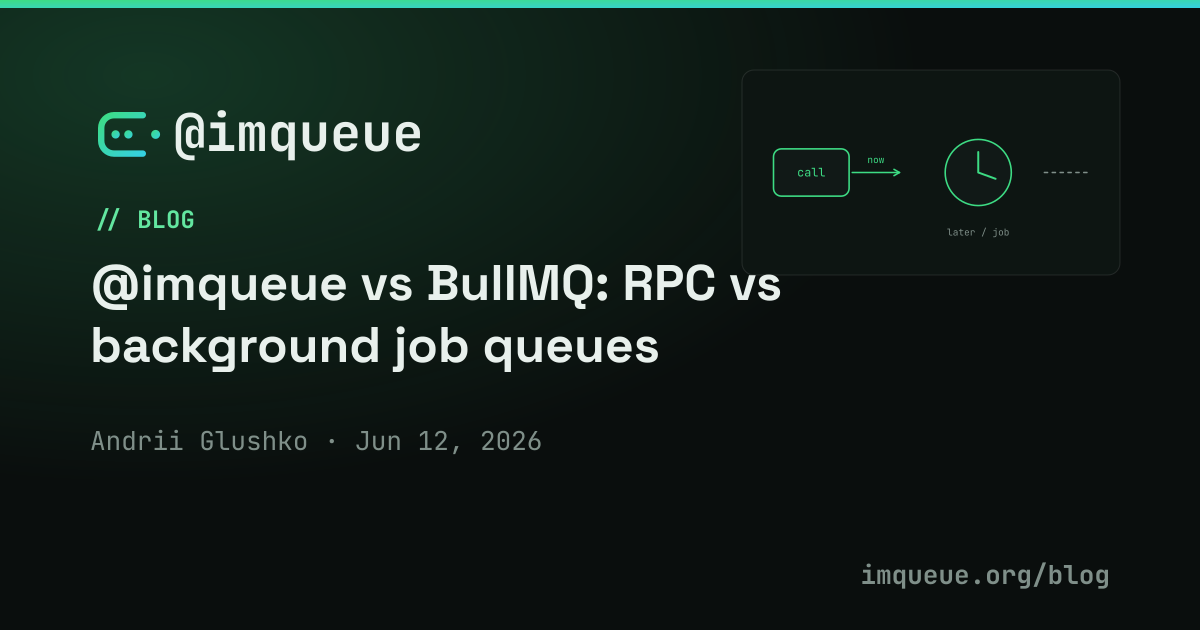
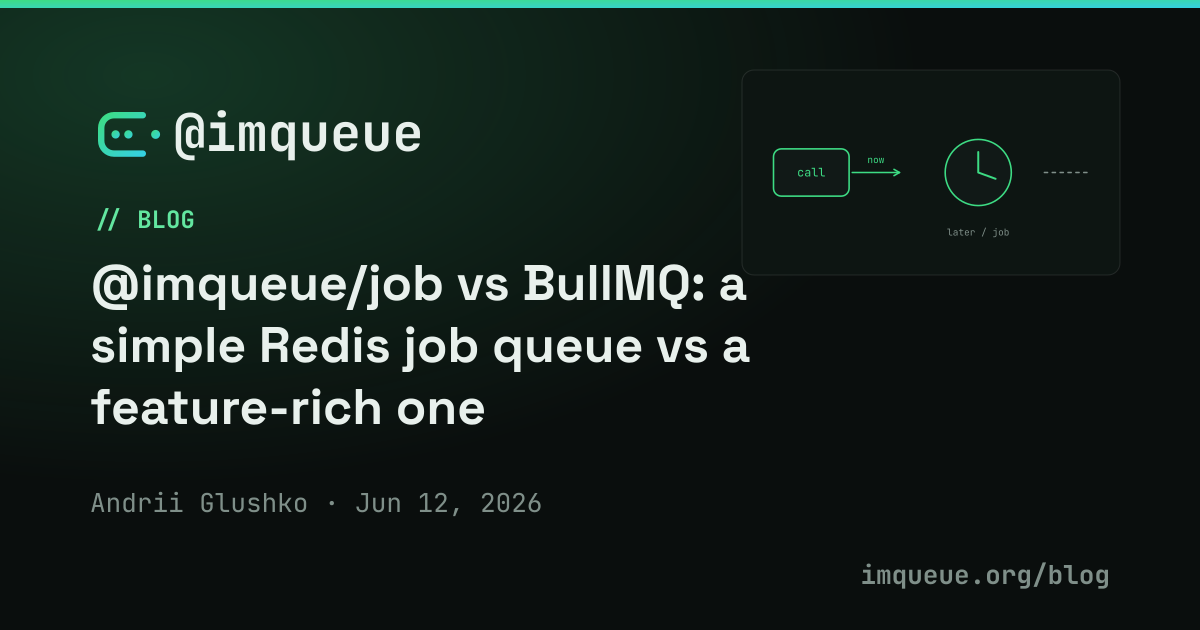
blog(draft): rewrite imqueue-vs-bullmq accurately
Old post wrongly claimed @imqueue is RPC-only and dismissed delayed delivery as
a 'lightweight primitive'. Corrected:
- compare @imqueue/job (real Redis job queue) vs BullMQ: simple/safe-by-default
  vs feature-rich (retries/backoff, priorities, cron, rate-limit, flows, dashboard)
- delayed/scheduled delivery is first-class across core (send delay), rpc
  (IMQDelay) and job (push {delay})
- add the differentiator: @imqueue also does typed RPC; BullMQ is jobs-only
- regenerate OG image for new title

diff --git a/src/org/blog/posts/imqueue-vs-bullmq.md b/src/org/blog/posts/imqueue-vs-bullmq.md
@@ -2,10 +2,10 @@
 layout: post.html
 permalink: /blog/imqueue-vs-bullmq/
 templateEngineOverride: md
-title: "@imqueue vs BullMQ: RPC vs background job queues"
-summary: "Both move messages through a queue — but BullMQ is a background-job queue and @imqueue is request/response RPC. Confusing them leads to the wrong architecture. Here's the line between them."
-description: "The difference between @imqueue (request/response RPC) and BullMQ (background job/task queue over Redis), and when to use each — or both together."
-keywords: "imqueue vs bullmq, bullmq alternative, redis job queue, background jobs nodejs, task queue vs rpc, request response vs job queue"
+title: "@imqueue/job vs BullMQ: a simple Redis job queue vs a feature-rich one"
+summary: "Both are Redis-backed job queues for Node.js. @imqueue/job is small, safe-by-default and scheduling-capable; BullMQ is the feature-rich one. Here's an honest split — plus the thing @imqueue does that BullMQ doesn't."
+description: "An even-handed comparison of @imqueue/job and BullMQ as Redis-backed job queues for Node.js — guaranteed processing, delayed/scheduled jobs, retries, priorities, flows — and when to pick each."
+keywords: "imqueue vs bullmq, bullmq alternative, redis job queue, background jobs nodejs, scheduled jobs nodejs, simple job queue, delayed jobs redis"
 date: 2026-06-12
 author: andrii
 illustration: rpc-vs-jobs
@@ -13,45 +13,84 @@ topics: [comparison, queue, jobs]
 ogType: article
 ---
 
-[BullMQ](https://docs.bullmq.io/) and `@imqueue` both "put messages on a queue," so they get compared. But they're built for different jobs, and picking the wrong one leads to a lot of friction. This post draws the line clearly. (BullMQ details reflect its documented behavior at the time of writing.)
+If you need to run background jobs on Redis in Node.js, [BullMQ](https://docs.bullmq.io/) is the name everyone reaches for. But `@imqueue` also ships a job queue — [`@imqueue/job`](https://github.com/imqueue/job) — built on the same Redis-backed core as the rest of the framework. This is an honest comparison of the two, plus one thing `@imqueue` does that BullMQ doesn't. (BullMQ details reflect its documented behavior at the time of writing.)
 
-## The core distinction: jobs vs calls
+## The one-line version
 
-**BullMQ is a background-job / task queue.** You enqueue a job ("resize this image", "send this email", "generate this report"), and one of your workers picks it up and processes it, later, possibly with retries, backoff, priorities, repeatable schedules, and rate limiting. The producer usually doesn't block waiting for a result — it fires the job and moves on. This is the classic *work queue* pattern, and BullMQ is excellent at it.
+**`@imqueue/job` is a deliberately *simple*, safe-by-default job queue; BullMQ is the *feature-rich* one.** Both run on Redis, both do concurrent workers and delayed jobs. BullMQ adds a much larger job-lifecycle surface (retries with backoff, priorities, repeatable/cron jobs, rate limiting, flows, a dashboard). `@imqueue/job` keeps a tiny footprint and leans on guaranteed delivery being on by default.
 
-**@imqueue is request/response RPC.** You call `userService.get('42')` and you `await` a typed result, the way you'd call a local function. The queue is an implementation detail that routes the call to a service instance and routes the result back. The caller *does* block on the answer, because it needs it.
+## What @imqueue/job gives you
 
-Put simply: **BullMQ answers "do this eventually"; @imqueue answers "give me this now."**
+`@imqueue/job` is a Redis-backed job queue with a small, focused feature set:
 
-## Why the distinction matters
+- **Guaranteed processing by default.** Safe delivery is on out of the box: if a worker grabs a job and dies mid-processing, the job is re-queued for another worker (a per-worker lock TTL, `safeLockTtl`, controls how long before it's considered dead). No data loss.
+- **Concurrent workers** on one queue — competing consumers with natural load balancing, no separate balancer.
+- **Delayed / scheduled jobs** to millisecond granularity: `push(data, { delay })`.
+- **Job expiration (TTL)** — a job can live forever or expire after a set time.
+- **Publisher / worker / both** roles, so you can split producers and consumers across processes.
+- **gzip** payload compression, and it's **TypeScript-first**.
+- **One dependency** (`@imqueue/core`), event-driven (no polling), low idle cost.
 
-If you try to build request/response RPC on top of a job queue, you end up hand-rolling correlation IDs, reply queues, timeouts, and type plumbing — reinventing an RPC layer badly. If you try to run long-running background work through an RPC layer, you fight against the request/response grain and block callers on work that should be fire-and-forget.
+```ts
+import JobQueue from '@imqueue/job';
 
-They're complementary, not competing. A healthy system often uses both:
+new JobQueue<string>({ name: 'Emails' })
+    .onPop(job => sendEmail(job))
+    .start()
+    .then(q => q
+        .push('welcome@acme.com')
+        .push('reminder@acme.com', { delay: 60_000 })); // run in 1 minute
+```
 
-- **@imqueue** for the synchronous internal API surface: service A needs data or an action from service B and waits for the result.
-- **BullMQ** for asynchronous, deferrable, retry-heavy work: image processing, emails, scheduled jobs, anything the caller shouldn't wait on.
+## Delayed & scheduled delivery is first-class — everywhere in @imqueue
 
-## A note on delayed messages
+This is worth stating plainly, because it's easy to assume a "simple" queue can't schedule: **delayed delivery is a core capability across the whole framework, not an afterthought.**
 
-`@imqueue` does support *delayed* delivery — you can send a message to be delivered after a delay — which overlaps slightly with a job queue's scheduling. But that's a lightweight primitive for timing, not a replacement for BullMQ's job lifecycle (attempts, backoff strategies, progress, repeatable jobs, flows). If you need that machinery, use a job queue built for it.
+- In `@imqueue/core`, the fundamental `send(toQueue, message, delay?)` takes a delay, implemented with a dedicated delayed-set scored by due time, promoted by Redis keyspace notifications (with a polling fallback) — a proper scheduler, not a hack.
+- In `@imqueue/rpc`, an `IMQDelay` value (with `ms`/`s`/`m`/`h`/`d` units) lets you delay *any* remote call.
+- In `@imqueue/job`, that surfaces as `push(data, { delay })`.
+
+So scheduling to the millisecond is built in at every layer. What `@imqueue/job` deliberately does *not* include is the richer job-lifecycle machinery below.
+
+## Where BullMQ goes further
+
+Be fair about this — if you need these, BullMQ is the better fit and `@imqueue/job` isn't trying to compete:
+
+- **Retries with configurable backoff** (fixed/exponential) and attempt limits.
+- **Priorities** across queued jobs.
+- **Repeatable / cron jobs** on a recurring schedule.
+- **Rate limiting** of processing.
+- **Flows** — parent/child job dependencies.
+- **Progress reporting, events, and a dashboard** ecosystem (e.g. Bull Board).
+
+`@imqueue/job` gives you durable, concurrent, schedulable jobs with almost no surface area; BullMQ gives you a full job-orchestration platform.
+
+## The thing BullMQ doesn't do: typed RPC
+
+BullMQ is a job queue, full stop. `@imqueue` is a whole framework on one Redis-backed core, and jobs are just one part of it. The same stack also gives you **typed request/response RPC** via [`@imqueue/rpc`](https://github.com/imqueue/rpc): call another service like a local function and `await` a typed result, with the client generated from the service.
+
+So if your system needs *both* "do this later" (jobs) *and* "give me this now" (service-to-service calls), `@imqueue` covers both with one dependency and one mental model. With BullMQ you'd pair it with a separate RPC/HTTP layer for the synchronous half.
 
 ## Quick comparison
 
-| | @imqueue | BullMQ |
+| | @imqueue/job | BullMQ |
 |---|---|---|
-| Pattern | Request/response RPC | Background job / work queue |
-| Caller waits for result? | Yes (`await` a typed value) | Usually no (fire-and-forget) |
-| Typed API | Generated typed clients | You define job data/return shapes |
-| Retries/backoff/priorities | Not its focus | First-class |
-| Scheduled/repeatable jobs | Basic delayed delivery | First-class |
-| Typical use | Internal service-to-service calls | Deferred/heavy background work |
+| Backing store | Redis | Redis |
+| Guaranteed processing | ✅ on by default (re-queue on worker death) | ✅ (stalled-job recovery) |
+| Concurrent workers | ✅ competing consumers | ✅ |
+| Delayed / scheduled jobs | ✅ millisecond granularity | ✅ |
+| Job expiration (TTL) | ✅ | ✅ (retention policies) |
+| Retries + backoff | ❌ | ✅ |
+| Priorities | ❌ | ✅ |
+| Repeatable / cron | ❌ | ✅ |
+| Rate limiting / flows / dashboard | ❌ | ✅ |
+| Typed request/response RPC | ✅ (via @imqueue/rpc, same core) | ❌ (jobs only) |
+| Dependencies | 1 (`@imqueue/core`) | several |
 | License | GPL-3.0 (commercial available) | MIT |
 
 ## How to choose
 
-- **Reach for BullMQ** when work can happen later, needs retries or scheduling, and the producer shouldn't block.
-- **Reach for @imqueue** when one service needs a typed answer or action from another, now.
-- **Use both** when you have both shapes of problem — which most non-trivial systems do.
+- **Reach for BullMQ** when you need the rich job lifecycle — retries with backoff, priorities, cron/repeatable jobs, rate limiting, flows, or a ready-made dashboard.
+- **Reach for `@imqueue/job`** when you want a small, dependency-light, safe-by-default job queue with delayed/scheduled jobs — especially if you're already using `@imqueue` for service communication and want one stack for both jobs and RPC.
 
-If it's the synchronous, typed service-to-service half you need, the [Tutorial](/tutorial/) walks through building it with @imqueue.
+To try the @imqueue side, [Getting Started](/get-started/) covers the framework, and [`@imqueue/job`](https://github.com/imqueue/job) has the job-queue API.
